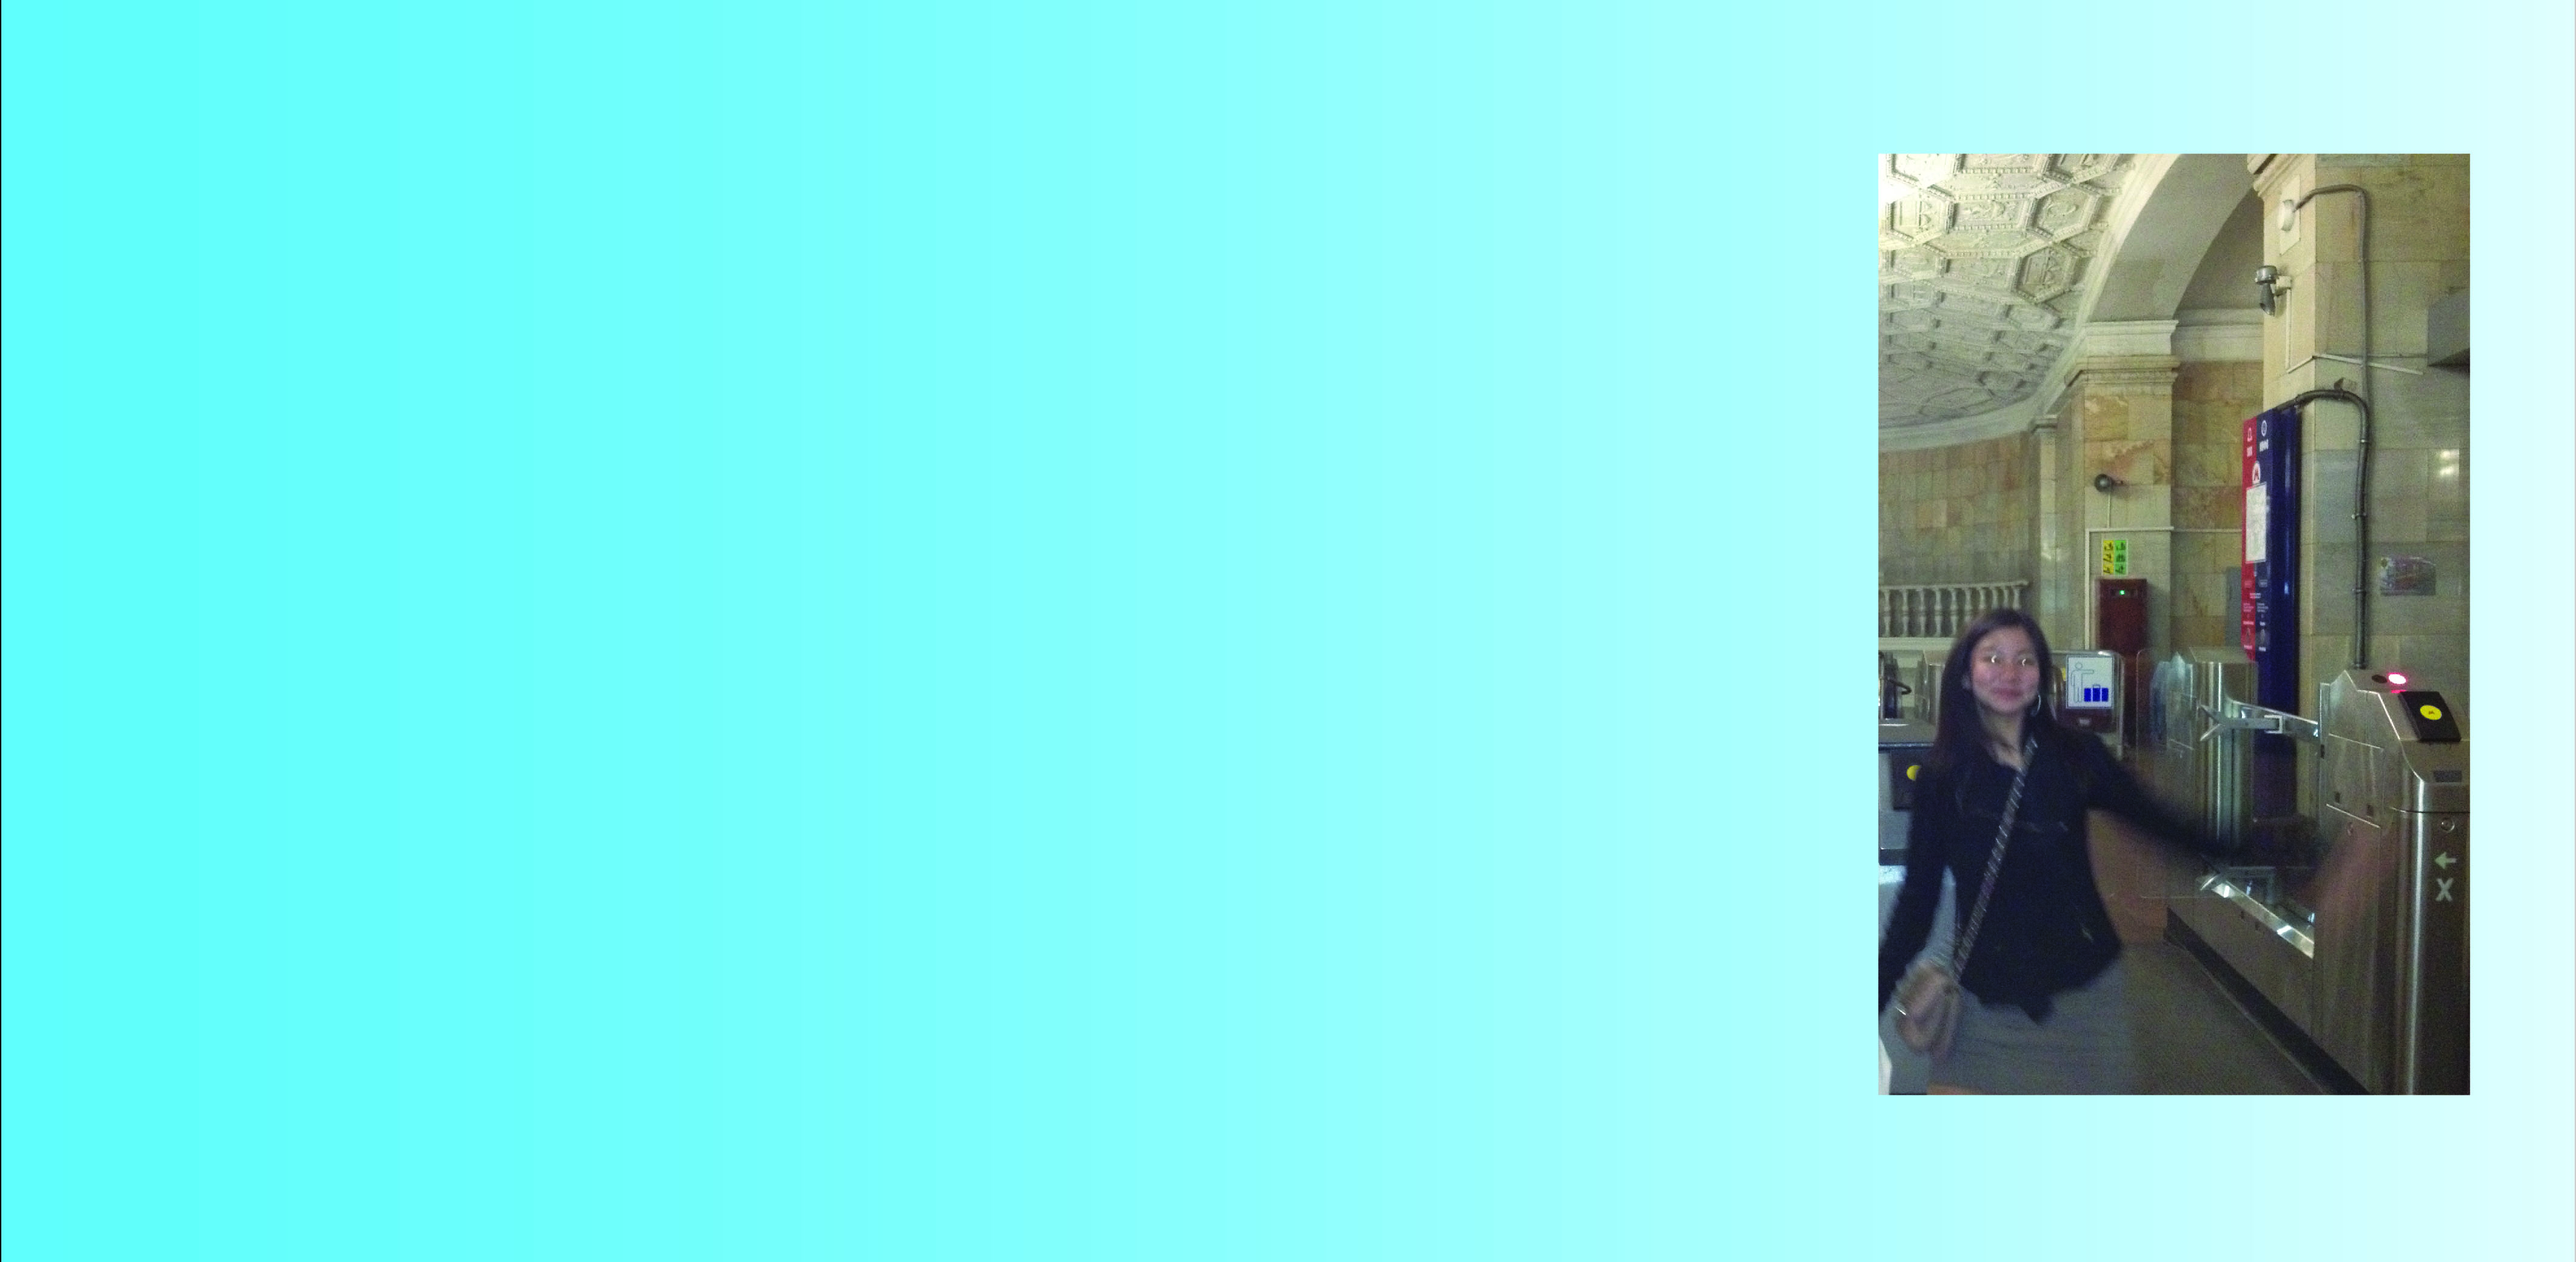
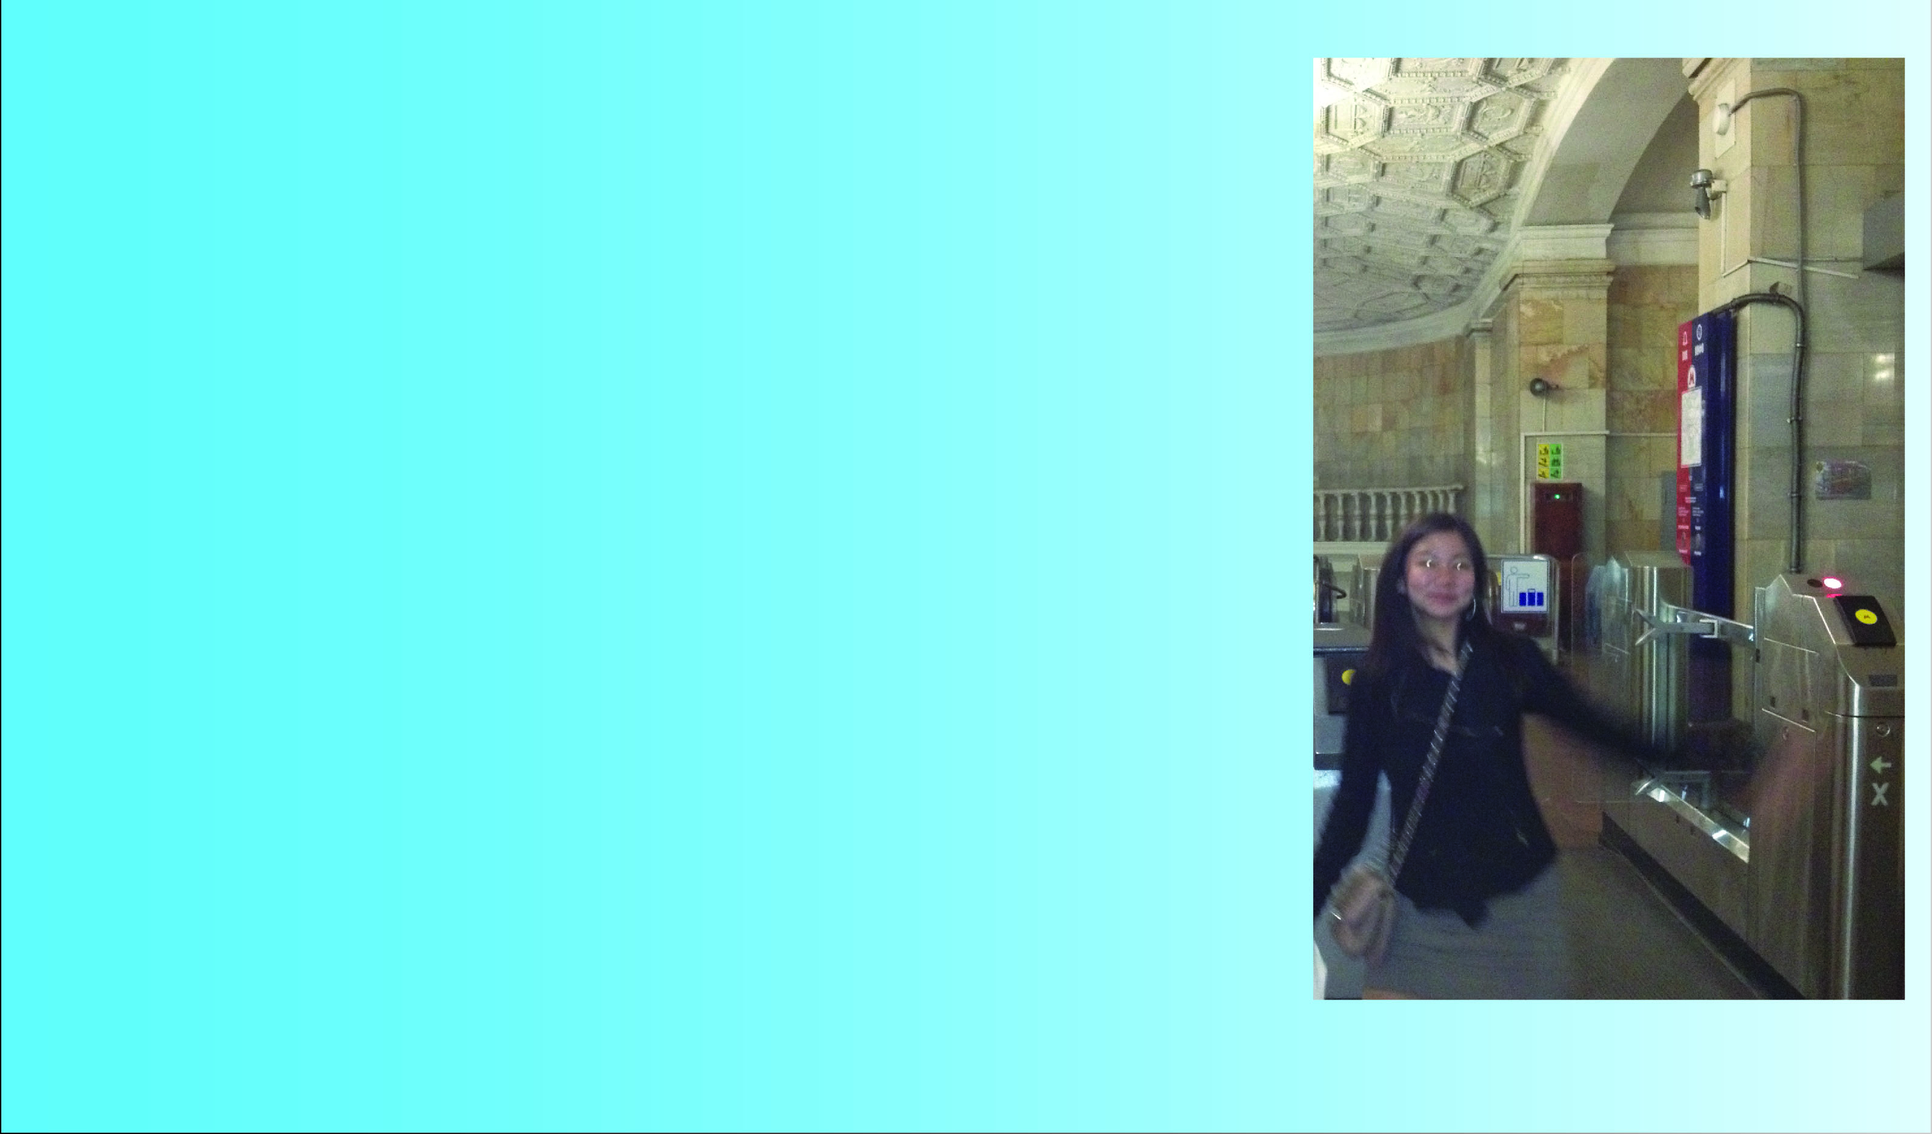
change

Changed region(s): [[0.6521, 0.031, 0.9937, 0.899], [0.0, 0.992, 1.0, 1.0]]

diff --git a/index.html b/index.html
@@ -4,32 +4,24 @@
 	<link type="text/css"; rel="stylesheet"; href="stylesheet.css"/>
 
 	<meta http-equiv="content-type" content="text/html;charset=utf-8" />
-	
+
 	<title>
 		Спектакль Окончен
 	</title>
 </head>
-<body id="dummybodyid">
 
-	<div id="top_bg" unselectable="on" style="-webkit-user-select: none;">
-		<img src=https://raw.github.com/SpektaklOkonchen/SpektaklOkonchen.github.io/master/2-Rect_Photo.jpg">
+<body>
+
+	<div id="silhouette">
+
+		<img src="https://raw.github.com/SpektaklOkonchen/SpektaklOkonchen.github.io/master/silhouette_text.png" alt="Спектакль Окончен | Spektakl' Okonchen | The Play is Over" width="255" height="415" />
+
 	</div>
 
-
-<div class="image">
-
-	<img src="https://raw.github.com/SpektaklOkonchen/SpektaklOkonchen.github.io/master/silhouette_text.png" alt="Спектакль Окончен | Spektakl' Okonchen | The Play is Over" width="255" height="415" />
-	<br>
-	<img src="https://raw.github.com/SpektaklOkonchen/SpektaklOkonchen.github.io/master/2-Rect_Photo.jpg" alt="September 2012..." width="4249" height="2083" />
-	
-</div>
+	<div id="september_2012"
 
 
-<div style=“background: url(https://raw.github.com/SpektaklOkonchen/SpektaklOkonchen.github.io/master/2-Rect_Photo.jpg); width: 123px; height: 123px; position: relative”>
-
-<div style=“position:absolute; top: 12px; left: 23px;”>HELLO THERE</div>
-</div>
-
+<!-- may not use
 	<div class="center">
 	<div class="SpektaklOkonchen">
 		Спектакль Окончен
@@ -39,6 +31,7 @@
  		 <rect x="500" y="100" width="200" height="1" style="fill:rgb(255,255,255);stroke-width:3;stroke:rgb(255,255,255)" />
 		</svg>
 	</div>
+-->
 
 
 	

diff --git a/stylesheet.css b/stylesheet.css
@@ -3,23 +3,15 @@ title {
     color: #FFFFFF;
 }
 
-body {
-	width: 100%;
-	height: 100%;
-	background-color: #000000;
-	overflow-y; scroll;
-	margin: 0;
-	padding: 0;
+#silhouette {
+	position: absolute;
+	top: 50%;
+	left: 50%;
+	margin-top: -208px; /* Half the height */
+	margin-left: -128px; /* Half the width */
 }
 
-#top_bg {
-	position: absolute;
-	width: 100%;
-	height: 100%;
-	left: 0;
-	top: 0;
-	overflow: hidden;
-}
+
 
 /* FOR NOW
 body {
@@ -54,13 +46,7 @@ body {
 	}
 
 
-.image {
-	position: absolute;
-	top: 50%;
-	left: 50%;
-	margin-top: -208px; /* Half the height */
-	margin-left: -128px; /* Half the width */
-}
+
 
 img {
 	border: 10px solid #CCCCCC;
